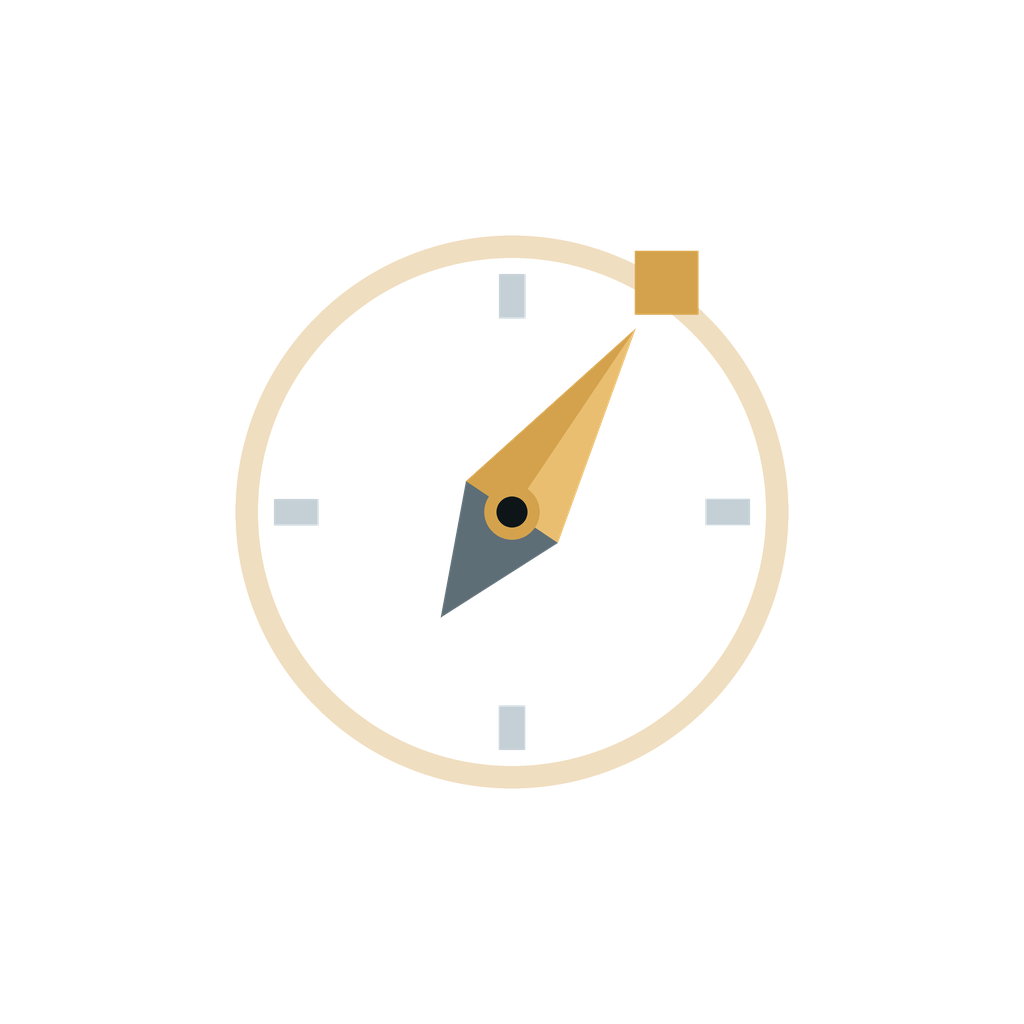
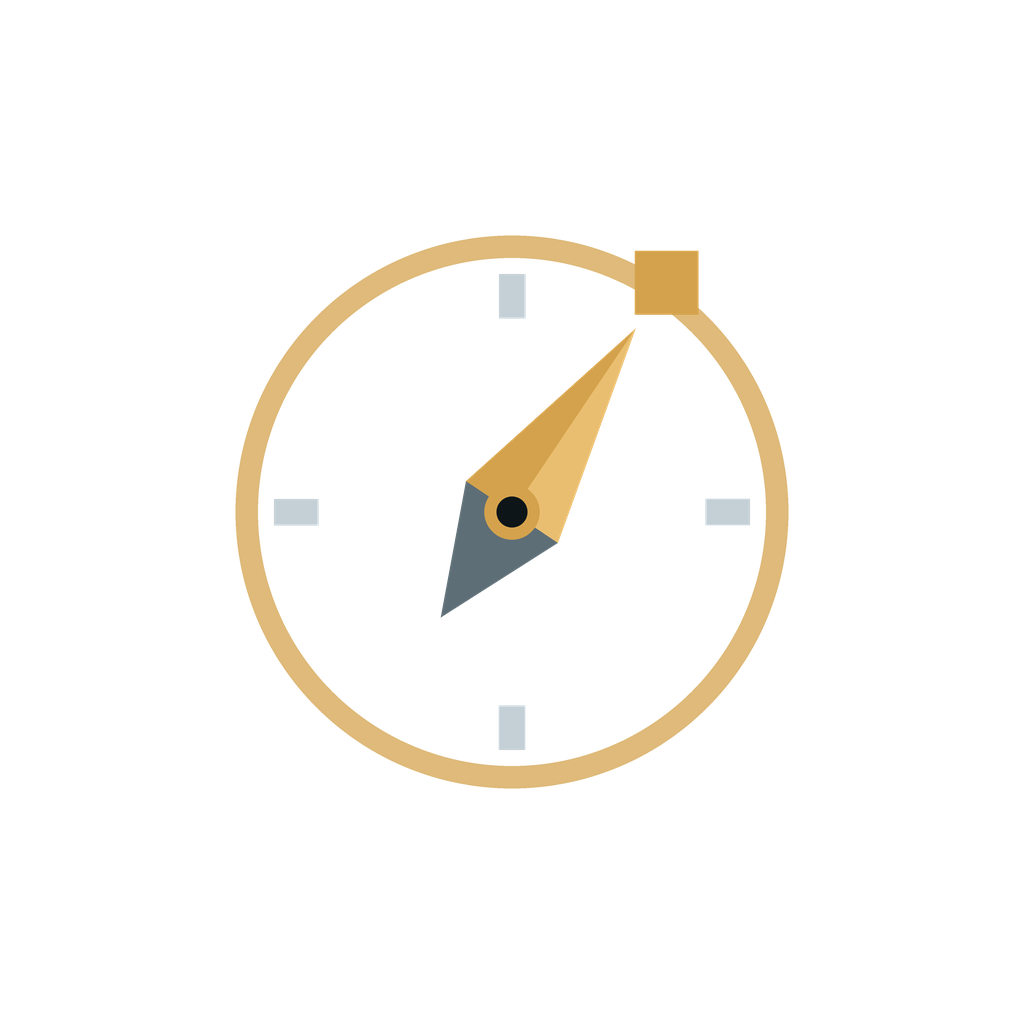
Make the compass ring read as gold on the splash screen
The ring was drawn at low opacity so it would stay subtle behind the
needle. At icon sizes that worked, but the splash screen renders the
same artwork at 220px against the dark ground, where the translucent
gold composited into a dull brown that looked accidental.

Raising the opacity fixes the splash and, unexpectedly, improves the
icon too: the dial now holds its shape down to 29px.

Changed region(s): [[0.2188, 0.2188, 0.7812, 0.7812]]

diff --git a/scripts/generate-icons.py b/scripts/generate-icons.py
@@ -25,7 +25,9 @@ GOLD_TIP = (233, 190, 112, 255)  # okun ucunda hafif açılma
 STEEL = (94, 110, 118, 255)      # iğnenin karşı ucu
 TICK_MAJOR = (196, 208, 214, 255)
 TICK_MINOR = (110, 126, 134, 255)
-RING = (212, 162, 76, 90)
+# Halka: şeffaflık düşük tutuluyor. Daha saydam bir altın, açılış ekranının
+# büyük ölçeğinde donuk bir kahverengiye dönüşüyordu.
+RING = (212, 162, 76, 190)
 
 # İğnenin dikeyden sapması. Tam yukarı "kuzey" gibi okunurdu; hafif eğim
 # bunun bir yön (bearing) olduğunu anlatıyor.
